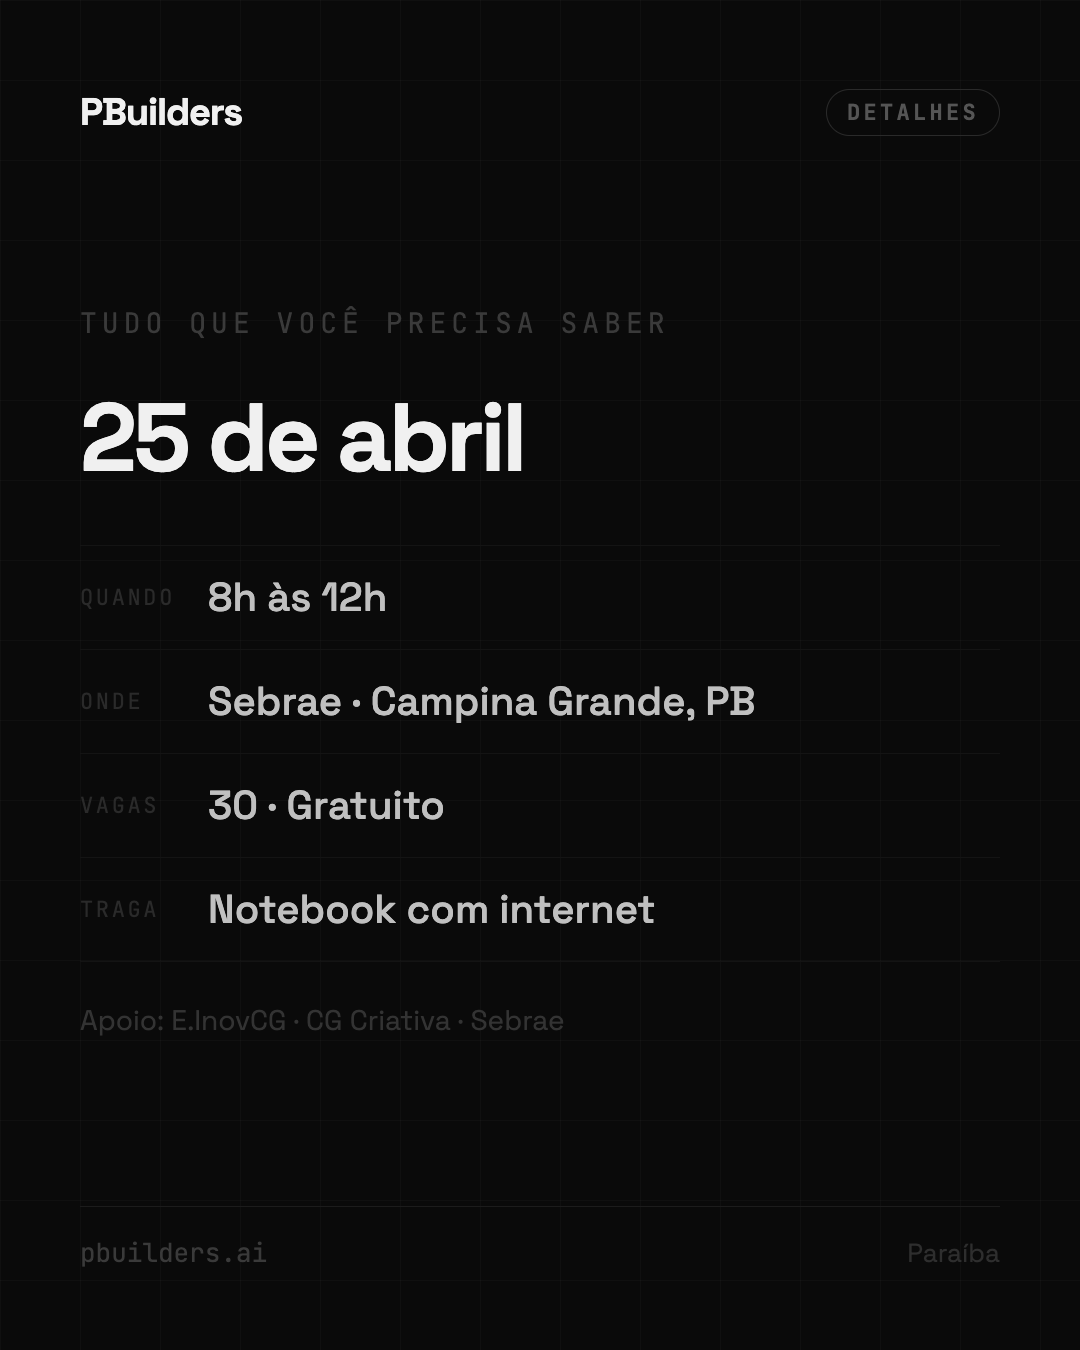
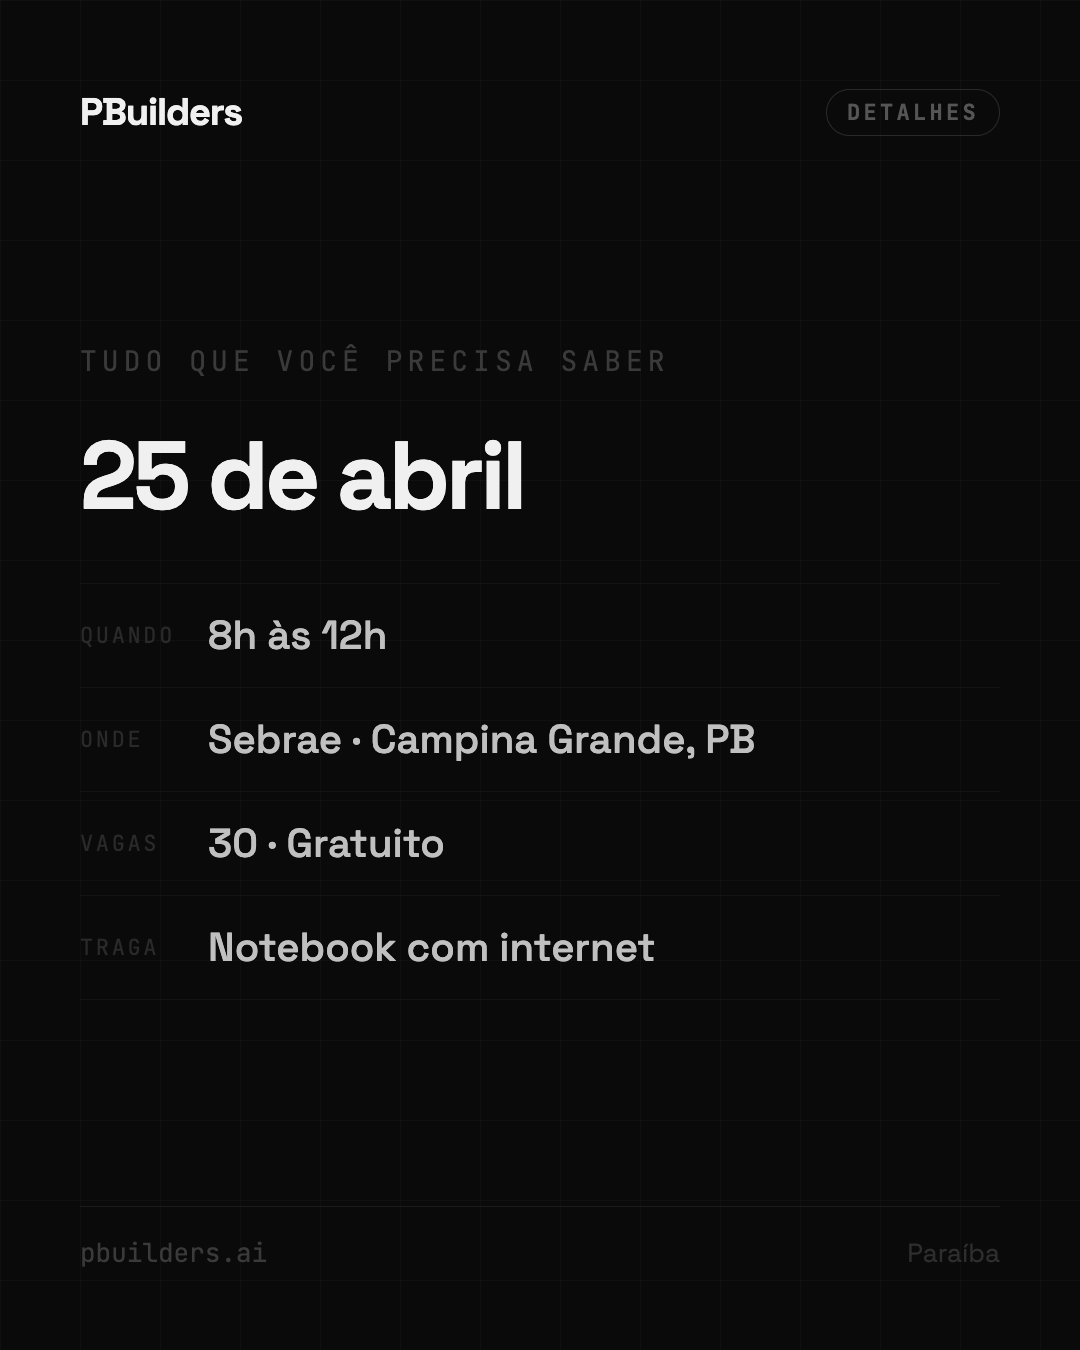
carrossel: adicionar slides de local e apoiadores (9 slides no total)
- Slide 7: Local — Sebrae, Campina Grande, endereço completo
- Slide 8: Apoiadores — E.InovCG, CG Criativa, Sebrae
- Remove linha de apoio do slide de detalhes (agora tem slide dedicado)

diff --git a/content/2026-04-17-primeiro-encontro/instagram-carousel.html b/content/2026-04-17-primeiro-encontro/instagram-carousel.html
@@ -396,6 +396,109 @@
       margin-top: 40px;
     }
 
+    /* ── SLIDE 8 — LOCAL ── */
+    #s8 .eyebrow {
+      font-family: 'JetBrains Mono', monospace;
+      font-size: 28px;
+      text-transform: uppercase;
+      letter-spacing: 0.18em;
+      color: #3A3A3A;
+      margin-bottom: 52px;
+    }
+
+    #s8 .venue-name {
+      font-size: 120px;
+      font-weight: 700;
+      letter-spacing: -0.05em;
+      line-height: 0.88;
+      color: #F0F0F0;
+      margin-bottom: 48px;
+    }
+
+    #s8 .venue-city {
+      font-size: 52px;
+      font-weight: 500;
+      color: #888;
+      letter-spacing: -0.02em;
+      margin-bottom: 20px;
+    }
+
+    #s8 .venue-address {
+      font-family: 'JetBrains Mono', monospace;
+      font-size: 26px;
+      color: #3A3A3A;
+      line-height: 1.6;
+    }
+
+    #s8 .venue-tag {
+      display: inline-flex;
+      align-items: center;
+      gap: 12px;
+      border: 1px solid #222;
+      padding: 14px 28px;
+      border-radius: 999px;
+      margin-top: 52px;
+    }
+
+    #s8 .venue-tag-text {
+      font-family: 'JetBrains Mono', monospace;
+      font-size: 22px;
+      color: #555;
+      text-transform: uppercase;
+      letter-spacing: 0.1em;
+    }
+
+    /* ── SLIDE 9 — APOIADORES ── */
+    #s9 .eyebrow {
+      font-family: 'JetBrains Mono', monospace;
+      font-size: 28px;
+      text-transform: uppercase;
+      letter-spacing: 0.18em;
+      color: #3A3A3A;
+      margin-bottom: 52px;
+    }
+
+    #s9 .main-headline {
+      font-size: 96px;
+      font-weight: 700;
+      letter-spacing: -0.04em;
+      line-height: 0.95;
+      color: #F0F0F0;
+      margin-bottom: 72px;
+    }
+
+    #s9 .apoio-list {
+      display: flex;
+      flex-direction: column;
+      gap: 0;
+    }
+
+    #s9 .apoio-item {
+      display: flex;
+      align-items: center;
+      gap: 28px;
+      padding: 36px 0;
+      border-bottom: 1px solid #141414;
+    }
+
+    #s9 .apoio-item:first-child {
+      border-top: 1px solid #141414;
+    }
+
+    #s9 .apoio-num {
+      font-family: 'JetBrains Mono', monospace;
+      font-size: 22px;
+      color: #2A2A2A;
+      min-width: 28px;
+    }
+
+    #s9 .apoio-name {
+      font-size: 44px;
+      font-weight: 600;
+      color: #C0C0C0;
+      letter-spacing: -0.02em;
+    }
+
     /* ── SLIDE 7 — CTA ── */
     #s7 .cta-eyebrow {
       font-family: 'JetBrains Mono', monospace;
@@ -660,7 +763,6 @@
         </div>
       </div>
 
-      <div class="apoio">Apoio: E.InovCG · CG Criativa · Sebrae</div>
     </div>
 
     <div class="footer">
@@ -670,7 +772,75 @@
   </div>
   </div>
 
-  <!-- SLIDE 7 — CTA -->
+  <!-- SLIDE 7 — LOCAL -->
+  <div class="preview-wrap">
+  <div class="slide" id="s8">
+    <div class="deco-circle" style="width:700px;height:700px;top:-200px;right:-200px;"></div>
+
+    <div class="header">
+      <div class="logo-pb">PBuilders</div>
+      <div class="tag">Local</div>
+    </div>
+
+    <div class="body">
+      <div class="eyebrow">Onde vai acontecer</div>
+
+      <div class="venue-name">Sebrae</div>
+      <div class="venue-city">Campina Grande, PB</div>
+      <div class="venue-address">
+        R. Cônsul Joseph Noujaim Habib Nacad, 800<br>
+        Catolé · 25 de abril · 8h às 12h
+      </div>
+
+      <div class="venue-tag">
+        <span class="venue-tag-text">Gratuito · 30 vagas</span>
+      </div>
+    </div>
+
+    <div class="footer">
+      <div class="footer-url">pbuilders.ai</div>
+      <div class="footer-right">Paraíba</div>
+    </div>
+  </div>
+  </div>
+
+  <!-- SLIDE 8 — APOIADORES -->
+  <div class="preview-wrap">
+  <div class="slide" id="s9">
+    <div class="header">
+      <div class="logo-pb">PBuilders</div>
+      <div class="tag">Apoio</div>
+    </div>
+
+    <div class="body">
+      <div class="eyebrow">Quem torna possível</div>
+
+      <div class="main-headline">Com apoio de</div>
+
+      <div class="apoio-list">
+        <div class="apoio-item">
+          <span class="apoio-num">01</span>
+          <span class="apoio-name">E.InovCG</span>
+        </div>
+        <div class="apoio-item">
+          <span class="apoio-num">02</span>
+          <span class="apoio-name">CG Criativa</span>
+        </div>
+        <div class="apoio-item">
+          <span class="apoio-num">03</span>
+          <span class="apoio-name">Sebrae</span>
+        </div>
+      </div>
+    </div>
+
+    <div class="footer">
+      <div class="footer-url">pbuilders.ai</div>
+      <div class="footer-right">Paraíba</div>
+    </div>
+  </div>
+  </div>
+
+  <!-- SLIDE 9 — CTA -->
   <div class="preview-wrap">
   <div class="slide" id="s7">
     <div class="deco-circle" style="width:700px;height:700px;bottom:-250px;left:-250px;opacity:0.5;"></div>
